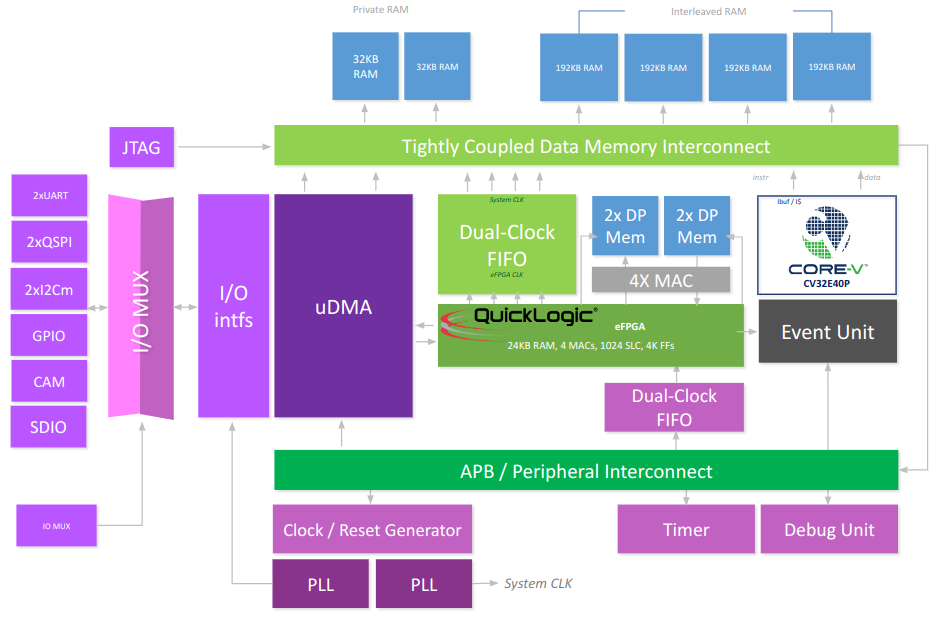
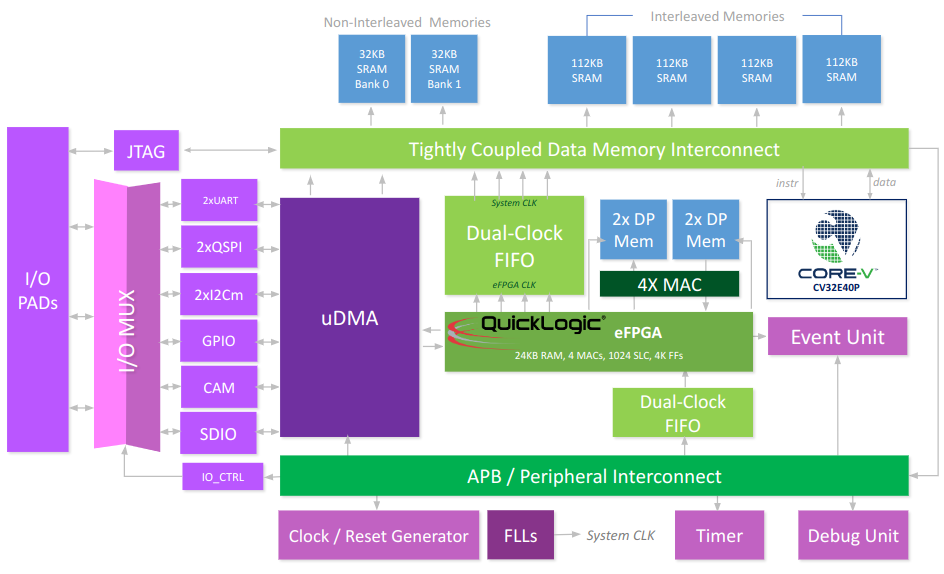
Rationalise pin-table and memory map (#273)
* Rationalize pin-table and memory map

* Update docs/doc-src/mmap.rst

* Update docs/doc-src/mmap.rst

* Update docs/doc-src/mmap.rst

* Update docs/doc-src/mmap.rst

* Update docs/doc-src/mmap.rst

* Update docs/doc-src/mmap.rst

* Update docs/doc-src/mmap.rst

* Update docs/doc-src/pin-table.md

diff --git a/docs/doc-src/mmap.rst b/docs/doc-src/mmap.rst
@@ -1,35 +1,32 @@
 Memory Map
 ^^^^^^^^^^
 
-This table reports the memory address map as described in
-`core-v-mcu/rtl/includes/soc_mem_map.svh <https://github.com/openhwgroup/core-v-mcu/blob/master/rtl/includes/soc_mem_map.svh>`_.
-The AXI plug is not reported as not implemented,
-thus it should be treated as empty memory map space.
+This table reports the "Top-Level" memory address map as seen by the core.
+The Peripheral and eFPGA domains are address ranges which support a set of memory mapped peripherals and the eFPGA resources respectively.
+As shown in the Block Diagram, there are two non-interleaved memory banks.
+Typically these memories are used for code-store and the stack, although there is no requirement for this.
+The interleaved memory is typically used for program data-store and micro-DMA data buffers.
 
++-----------------------------------+--------------------+------------------+
+| **Description**                   | **Address Start**  | **Address End**  |
++===================================+====================+==================+
+| **Boot ROM**                      | 0x1A00-0000         | 0x1A03-FFFF       |
++-----------------------------------+--------------------+------------------+
+| **Peripheral Domain**             | 0x1A10-0000         | 0x1A2F-FFFF       |
++-----------------------------------+--------------------+------------------+
+| **eFPGA Domain**                  | 0x1A30-0000         | 0x1A3F-FFFF       |
++-----------------------------------+--------------------+------------------+
+| **Non-Interleaved Memory Bank 0** | 0x1C00-0000         | 0x1C00-7FFF       |
++-----------------------------------+--------------------+------------------+
+| **Non-Interleaved Memory Bank 1** | 0x1C00-8000         | 0x1C00-FFFF       |
++-----------------------------------+--------------------+------------------+
+| **Interleaved Memory**            | 0x1C010000         | 0x1C07FFFF       |
++-----------------------------------+--------------------+------------------+
 
-+-----------------------------+---------------------------+---------------------------+
-| **Description**             | **Address Start**         | **Address End**           |
-+=============================+===========================+===========================+
-| **Boot ROM**                | 0x1A000000                | 0x1A03FFFF                |
-+-----------------------------+---------------------------+---------------------------+
-| **Peripheral Domain**       | 0x1A100000                | 0x1A2FFFFF                |
-+-----------------------------+---------------------------+---------------------------+
-| **eFPGA Domain**            | 0x1A300000                | 0x1A3FFFFF                |
-+-----------------------------+---------------------------+---------------------------+
-| **Memory Bank 0**           | 0x1C000000                | 0x1C007FFF                |
-+-----------------------------+---------------------------+---------------------------+
-| **Memory Bank 1**           | 0x1C008000                | 0x1C00FFFF                |
-+-----------------------------+---------------------------+---------------------------+
-| **Memory Bank Interleaved** | 0x1C010000                | 0x1C08FFFF                |
-+-----------------------------+---------------------------+---------------------------+
-
-The Peripheral Domain memory map is reported below as described in
-`core-v-mcu/rtl/includes/periph_bus_defines.svh <https://github.com/openhwgroup/core-v-mcu/blob/master/rtl/includes/periph_bus_defines.svh>`_.
-The Stdout emulator works only with RTL simulation and not
-with FPGA or ASIC implementations.
+Memory locations in the peripheral domain are used to access Control and Status Registers (CSRs) used to control the CORE-V-MCU IP blocks.
 
 +-----------------------------+---------------------------+---------------------------+
-| **Description**             | **Address Start**         | **Address End**           |
+| **CORE-V-MCU IP Block**     | **Address Start**         | **Address End**           |
 +=============================+===========================+===========================+
 | **Frequency-locked loop**   | 0x1A100000                | 0x1A100FFF                |
 +-----------------------------+---------------------------+---------------------------+
@@ -47,16 +44,17 @@ with FPGA or ASIC implementations.
 +-----------------------------+---------------------------+---------------------------+
 | **Timer**                   | 0x1A10B000                | 0x1A10BFFF                |
 +-----------------------------+---------------------------+---------------------------+
-| **Stdout emulator**         | 0x1A10F000                | 0x1A10FFFF                |
+| **stdout emulator**         | 0x1A10-F000                | 0x1A10-FFFF                |
 +-----------------------------+---------------------------+---------------------------+
-| **Debug**                   | 0x1A110000                | 0x1A11FFFF                |
+| **Debug**                   | 0x1A11-0000                | 0x1A11-FFFF                |
 +-----------------------------+---------------------------+---------------------------+
 | **eFPGA configuration**     | 0x1A200000                | 0x1A2F0000                |
 +-----------------------------+---------------------------+---------------------------+
 | **eFPGA HWCE**              | 0x1A300000                | 0x1A3F0000                |
 +-----------------------------+---------------------------+---------------------------+
 
-The memory map of the **Debug** region of the Peripheral Domain is documented as part of the PULP debug system. With the `Overview <https://github.com/pulp-platform/riscv-dbg/blob/master/doc/debug-system.md>`_, the `Debug Memory Map <https://github.com/pulp-platform/riscv-dbg/blob/master/doc/debug-system.md#debug-memory-map>`_ gives the offsets within the Debug region of the various parts of the debug module.
+Note that the stdout emulator works only with RTL simulation and not with FPGA or ASIC implementations.
+
 
 CSR Access Types:
 ~~~~~~~~~~~~~~~~~
@@ -83,3 +81,17 @@ CSR Access Types:
 | RW0C        | Read & on Write bits with 0 get cleared, bits with 1 left unchanged |
 +-------------+---------------------------------------------------------------------+
 
+Implementation Details
+~~~~~~~~~~~~~~~~~~~~~~
+The Top-level address map is defined in
+`core-v-mcu/rtl/includes/soc_mem_map.svh <https://github.com/openhwgroup/core-v-mcu/blob/master/rtl/includes/soc_mem_map.svh>`_.
+
+The Peripheral Domain memory map is reported below as described in
+`core-v-mcu/rtl/includes/periph_bus_defines.svh <https://github.com/openhwgroup/core-v-mcu/blob/master/rtl/includes/periph_bus_defines.svh>`_.
+
+The memory map of the **Debug** region of the Peripheral Domain is documented as part of the PULP debug system.
+With the
+`Overview <https://github.com/pulp-platform/riscv-dbg/blob/master/doc/debug-system.md>`_,
+the
+`Debug Memory Map <https://github.com/pulp-platform/riscv-dbg/blob/master/doc/debug-system.md#debug-memory-map>`_
+gives the offsets within the Debug region of the various parts of the debug module.

diff --git a/docs/doc-src/pin-table.md b/docs/doc-src/pin-table.md
@@ -1,4 +1,26 @@
-# Pin Assignment
+# Pin Assignment Tables
+The CORE-V-MCU can be targeted to multiple implementations, including FPGA and ASIC.
+This section is the pin assignments for the currently supported implementations.
+
+Table headings have the following meaning:
+
+* **IO**: a user I/O or XADC pin on the FPGA.
+* **SYSIO**: a hardwired function, i.e., not affected by I/O Mux Select, (e.g. ref_clk).
+* **sel=0..3**: the value of the I/O Mux Select; IO_CTRL[1:0] CSR (at offset 0x0400).
+
+The I/O Mux select can be used to select one or more of the following IP peripheral blocks to the specified I/O pins:
+
+* **uart0..1**: I/O signals for one of two simple [Universal Asynchronous Receiver/Transmitters](uart.md)
+* **qspim0..1**: I/O signals for one of two [Queued Serial Peripheral Interface](qspim.md) masters.
+* **i2cm0..1**: I/O signals for one of two Inter-Integrated Circuit [I2C](i2cm.md) bus masters.
+* **apbio_0..31**: One of 32 general purpose I/O ([GPIO](apb_gpio.md)) signals.
+* **fpgaio_0..31**: One of 32 general purpose I/O ([GPIO](apb_gpio.md)) signals driven by the eFPGA.
+* **cam0**: [Camera](cam.md) interface.
+* **sdio**: [SDIO Card](sdio).
+
+## Xilinx XC7A100T FPGA
+CORE-V-MCU Makefiles, FuseSoC "core" files and Xilinx constraints files are available to support synthesis and bitmap generation for the XCA7A100T FPGA on a Digilent Nexys A7.
+The pin assignment and IOMUX selection in the XC7A100T is given in the Table below.
 
 | IO | sysio | sel=0 | sel=1 | sel=2 | sel=3 |
 | --- | --- | --- | --- | --- | --- |
@@ -50,3 +72,60 @@
 | IO_45 | bootsel |  |  |  | fpgaio_37 |
 | IO_46 |  | i2cm1_scl |  |  | fpgaio_38 |
 | IO_47 |  | i2cm1_sda |  |  | fpgaio_39 |
+
+## ASIC Pin-out
+
+**Note**: the ASIC pin-out is still being worked out.
+An update to this table will be made when it is finalized.
+
+| Pin | IO | sysio | sel=0 | sel=1 | sel=2 | sel=3 |
+| --- | --- | --- | --- | --- | --- | --- |
+|     | IO_0 | jtag_tck |  |  |  |  |
+|     | IO_1 | jtag_tdi |  |  |  |  |
+|     | IO_2 | jtag_tdo |  |  |  |  |
+|     | IO_3 | jtag_tms |  |  |  |  |
+|     | IO_4 | jtag_trst |  |  |  |  |
+|     | IO_5 | ref_clk |  |  |  |  |
+|     | IO_6 | rstn |  |  |  |  |
+|     | IO_7 |  | uart0_rx |  | apbio_0 | fpgaio_0 |
+|     | IO_8 |  | uart0_tx |  | apbio_1 | fpgaio_1 |
+|     | IO_9 |  | uart1_tx |  | apbio_2 | fpgaio_2 |
+|     | IO_10 |  | uart1_rx |  | apbio_3 | fpgaio_3 |
+|     | IO_11 |  | apbio_32 | apbio_47 | apbio_4 | fpgaio_4 |
+|     | IO_12 |  | apbio_0 |  | apbio_5 | fpgaio_5 |
+|     | Jxadc[1] |  | qspim0_csn0 | apbio_34 | apbio_6 | fpgaio_6 |
+|     | Jxadc[2] |  | qspim0_data0 | apbio_35 | apbio_7 | fpgaio_7 |
+|     | Jxadc[3] |  | qspim0_data1 | apbio_37 | apbio_8 | fpgaio_8 |
+|     | Jxadc[4] |  | qspim0_clk | apbio_38 | apbio_9 | fpgaio_9 |
+|     | Jxadc[7] |  | apbio_1 | apbio_40 | apbio_10 | fpgaio_10 |
+|     | Jxadc[8] |  | apbio_2 | apbio_41 | apbio_11 | fpgaio_11 |
+|     | Jxadc[9] |  | qspim0_data2 | apbio_42 | apbio_12 | fpgaio_12 |
+|     | Jxadc[10] |  | qspim0_data3 | apbio_43 | apbio_13 | fpgaio_13 |
+|     | IO_21 |  | cam0_vsync | apbio_36 | apbio_14 | fpgaio_14 |
+|     | IO_22 |  | cam0_hsync | apbio_39 | apbio_15 | fpgaio_15 |
+|     | IO_23 |  | i2cm0_scl |  | apbio_16 | fpgaio_16 |
+|     | IO_24 |  | i2cm0_sda |  | apbio_17 | fpgaio_17 |
+|     | IO_25 |  | cam0_clk | apbio_33 | apbio_18 | fpgaio_18 |
+|     | IO_26 |  | apbio_32 | qspim0_csn1 | apbio_19 | fpgaio_19 |
+|     | IO_27 |  | apbio_48 | qspim0_csn2 | apbio_20 | fpgaio_20 |
+|     | IO_28 |  | apbio_49 | qspim0_csn3 | apbio_21 | fpgaio_21 |
+|     | IO_29 |  | cam0_data0 | qspim1_csn0 | apbio_22 | fpgaio_22 |
+|     | IO_30 |  | cam0_data1 | qspim1_data0 | apbio_23 | fpgaio_23 |
+|     | IO_31 |  | cam0_data2 | qspim1_data1 | apbio_24 | fpgaio_24 |
+|     | IO_32 |  | cam0_data3 | qspim1_clk | apbio_25 | fpgaio_25 |
+|     | IO_33 |  | cam0_data4 | qspim1_csn1 | apbio_26 | fpgaio_26 |
+|     | IO_34 |  | cam0_data5 | qspim1_csn2 | apbio_27 | fpgaio_27 |
+|     | IO_35 |  | cam0_data6 | qspim1_data2 | apbio_28 | fpgaio_28 |
+|     | IO_36 |  | cam0_data7 | qspim1_data3 | apbio_29 | fpgaio_29 |
+|     | IO_37 |  | sdio0_data3 |  | apbio_30 | fpgaio_30 |
+|     | IO_38 |  | sdio0_cmd |  | apbio_31 | fpgaio_31 |
+|     | IO_39 |  | sdio0_data0 |  | apbio_32 | fpgaio_32 |
+|     | IO_40 |  | sdio0_clk |  | apbio_43 | fpgaio_33 |
+|     | IO_41 |  | sdio0_data1 |  | apbio_44 | fpgaio_34 |
+|     | IO_42 |  | sdio0_data2 |  | apbio_45 | fpgaio_35 |
+|     | IO_43 |  | apbio_50 | apbio_0 | apbio_46 | fpgaio_36 |
+|     | IO_44 | stm |  |  |  |  |
+|     | IO_45 | bootsel |  |  |  | fpgaio_37 |
+|     | IO_46 |  | i2cm1_scl |  |  | fpgaio_38 |
+|     | IO_47 |  | i2cm1_sda |  |  | fpgaio_39 |
+

diff --git a/docs/index.rst b/docs/index.rst
@@ -51,10 +51,15 @@ CORE-V-MCU User Manual
     doc-src/apb_gpio.md
     doc-src/apb_timer.md
     doc-src/apb_adv_timer.md
+    doc-src/cam.md
+    doc-src/i2cm.md
     doc-src/i2cs.md
+    doc-src/sdio.md
     doc-src/system_control_peripherals.md
     doc-src/logarithmic_interconnect.md
+    doc-src/qspim.md
     doc-src/udma.md
+    doc-src/uart.md
     doc-src/efpga_subsystem.md
 
 
@@ -67,11 +72,11 @@ CORE-V-MCU User Manual
     doc-src/csr-docs/apb_event_cntrl_reg_defs.md
     doc-src/csr-docs/apb_timer_unit_reg_defs.md
     doc-src/csr-docs/apb_gpio_reg_defs.md
+    doc-src/csr-docs/udma_i2cm_reg_defs.md
     doc-src/csr-docs/apb_i2cs_reg_defs.md
     doc-src/csr-docs/efpga_template_reg_defs.md
     doc-src/csr-docs/udma_ctrl_reg_defs.md
     doc-src/csr-docs/udma_uart_reg_defs.md
-    doc-src/csr-docs/udma_i2cm_reg_defs.md
     doc-src/csr-docs/udma_qspi_reg_defs.md
     doc-src/csr-docs/udma_sdio_reg_defs.md
     doc-src/csr-docs/udma_camera_reg_defs.md

diff --git a/docs/doc-src/sdio.md b/docs/doc-src/sdio.md
@@ -1,0 +1,8 @@
+# SD Card Interface
+
+## Features
+
+## Port-Map
+
+## Theory of Operation
+

diff --git a/docs/doc-src/cam.md b/docs/doc-src/cam.md
@@ -1,0 +1,8 @@
+# CAMERA Interface
+
+## Features
+
+## Port-Map
+
+## Theory of Operation
+

diff --git a/docs/doc-src/i2cm.md b/docs/doc-src/i2cm.md
@@ -1,0 +1,8 @@
+# I2C Master
+
+## Features
+
+## Port-Map
+
+## Theory of Operation
+

diff --git a/docs/doc-src/qspim.md b/docs/doc-src/qspim.md
@@ -1,0 +1,1 @@
+# QSPI

diff --git a/docs/doc-src/uart.md b/docs/doc-src/uart.md
@@ -1,0 +1,1 @@
+# UART
